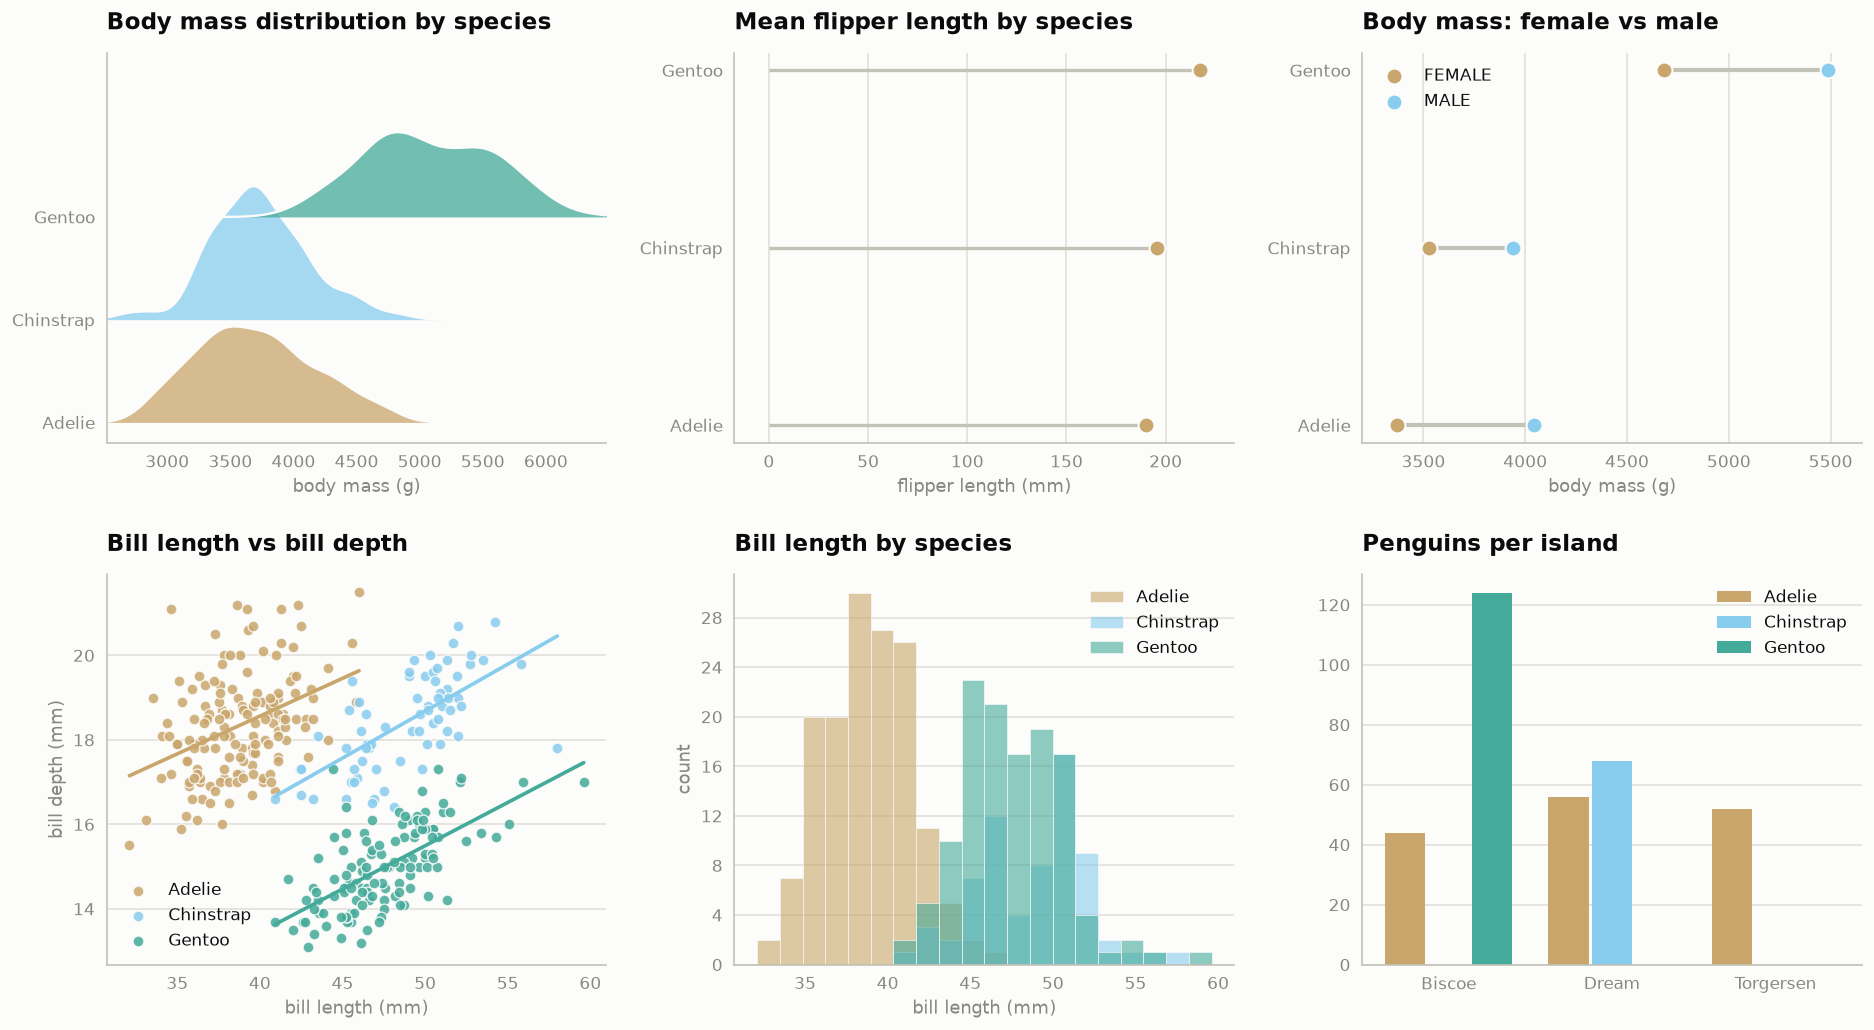
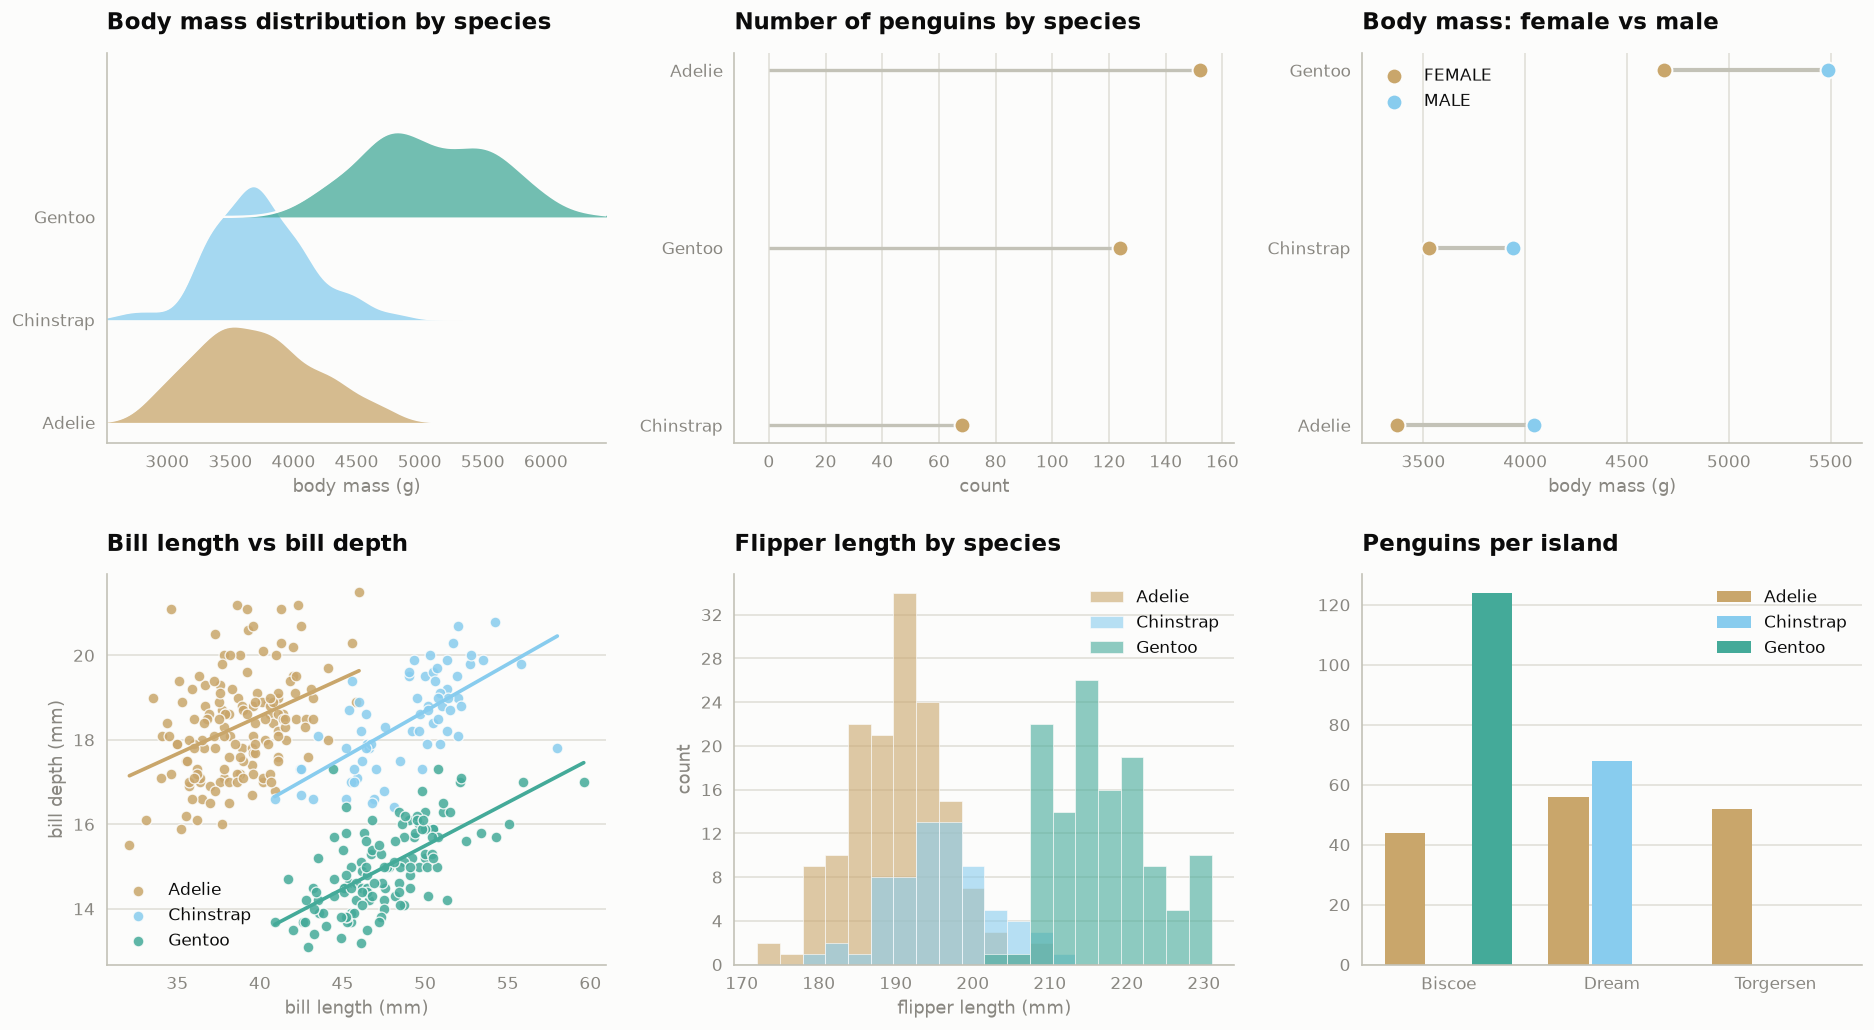
Refresh gallery: flipper-length histogram and species-count lollipop
Swap the histogram from bill length to flipper length, which shows a clearer
two-overlap-one-separate pattern across species. Repoint the lollipop from mean
flipper length (values bunched far from zero, so the ranking barely read) to
penguin counts per species, which spread cleanly from zero and add sample-size
context. Each measurement now appears once.

Claude-Session: https://claude.ai/code/session_011z8vY9Dm6rRXsFqaSvsfSk

diff --git a/examples/example.py b/examples/example.py
@@ -21,8 +21,8 @@ penguins = pd.read_csv(os.path.join(HERE, "penguins.csv"))
 
 # --- shape a few tidy tables straight from the raw frame -------------------
 
-# mean flipper length per species → ranked lollipop
-flipper = penguins.groupby("species")["flipper_length_mm"].mean()
+# number of penguins per species → ranked lollipop
+species_counts = penguins.groupby("species").size()
 
 # mean body mass by sex per species → dumbbell (female vs male)
 sexed = penguins.dropna(subset=["sex"])
@@ -40,16 +40,17 @@ fig, axes = plt.subplots(2, 3, figsize=(16, 9))
 cv.ridgeline(penguins, value="body_mass_g", group="species",
              title="Body mass distribution by species",
              xlabel="body mass (g)", ax=axes[0, 0])
-cv.lollipop(flipper, title="Mean flipper length by species",
-            xlabel="flipper length (mm)", ax=axes[0, 1])
+cv.lollipop(species_counts, title="Number of penguins by species",
+            xlabel="count", ax=axes[0, 1])
 cv.dumbbell(mass_by_sex, title="Body mass: female vs male",
             xlabel="body mass (g)", ax=axes[0, 2])
 sc = cv.scatter(penguins, "bill_length_mm", "bill_depth_mm", color="species",
                 trend=True, title="Bill length vs bill depth", ax=axes[1, 0])
 sc.set_xlabel("bill length (mm)")
 sc.set_ylabel("bill depth (mm)")
-cv.hist(penguins, "bill_length_mm", by="species", title="Bill length by species",
-        xlabel="bill length (mm)", ax=axes[1, 1])
+cv.hist(penguins, "flipper_length_mm", by="species",
+        title="Flipper length by species",
+        xlabel="flipper length (mm)", ax=axes[1, 1])
 cv.bar(counts, title="Penguins per island", ax=axes[1, 2])
 
 fig.set_facecolor("#fcfcfb")
